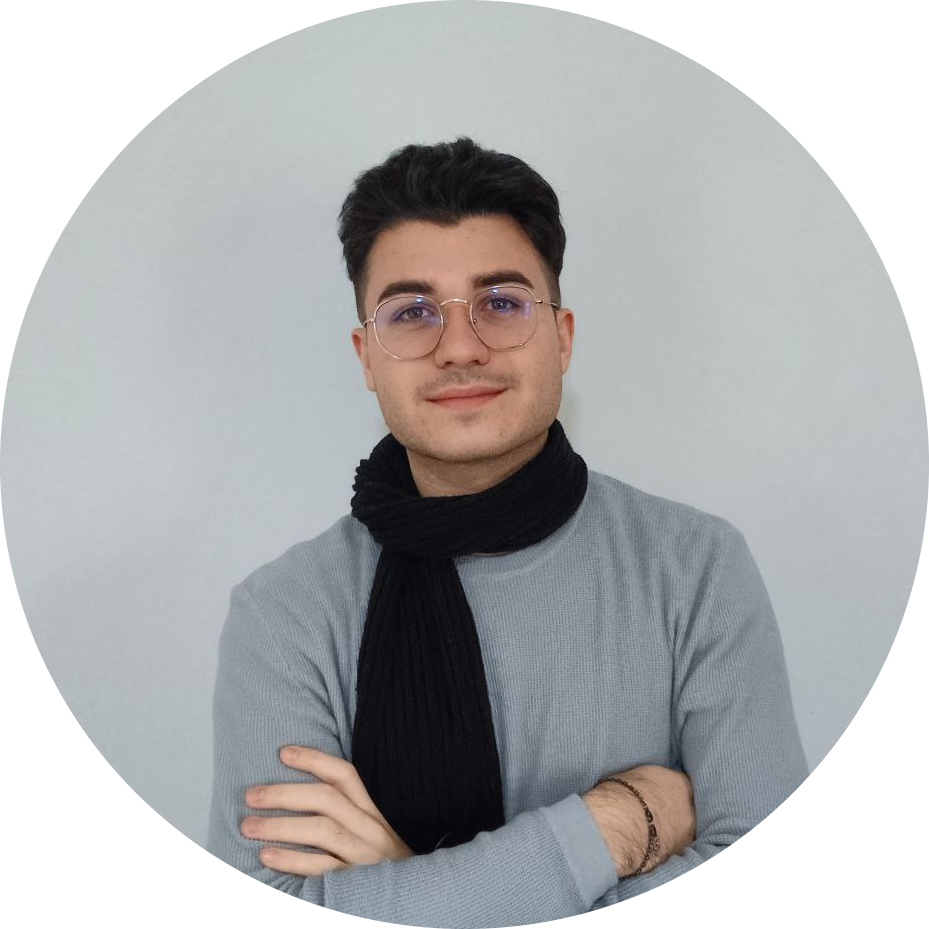
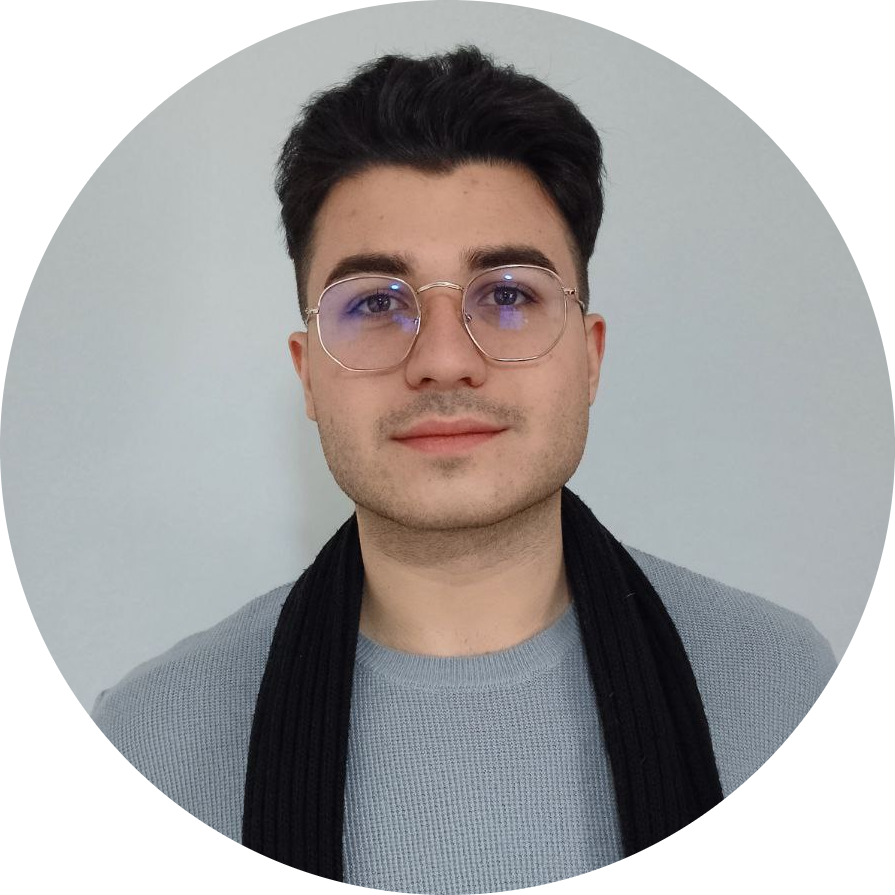
Change photo profile

diff --git a/_tabs/about.md b/_tabs/about.md
@@ -10,6 +10,8 @@ order: 4
 > In my blog you will find all my Researches and Projects
 {: .prompt-info }
 
+![profile](/assets/img/various_images/rectangle_profile.jpg)
+
 <div style="text-align: justify">
 I'm Carlo Colizzi, a student and researcher of Computer Science and Cyber Security at the University of Salerno in Italy. I love Computer Science in all its aspects. Right now I'm practicing research at UNISA, in the field of Malware Development, and studying for a Major in Cyber Security.
 <br><br>
